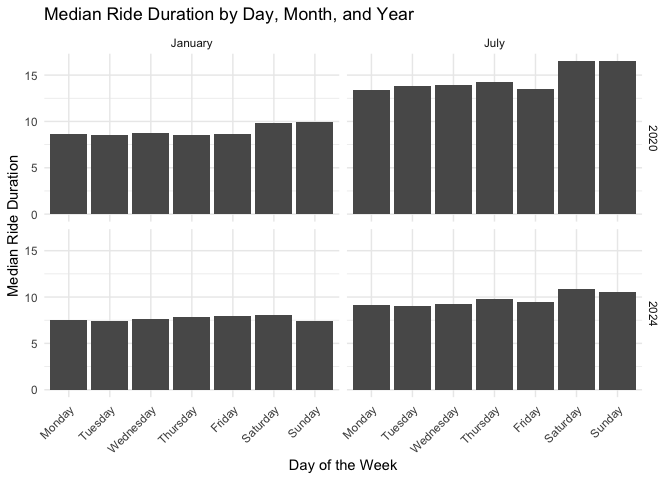
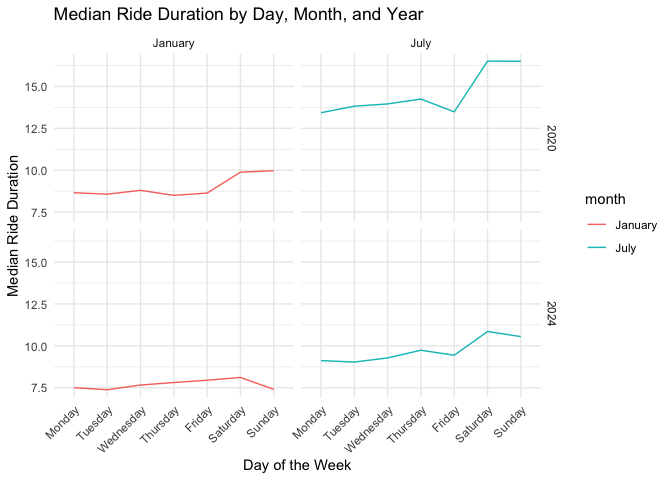
Create plot shows the impact of month, membership status, and bike type on the distribution of ride duration

diff --git a/p8105_hw3_ys3924.md b/p8105_hw3_ys3924.md
@@ -27,7 +27,7 @@ dataset has 2595176 observations. There exists missing values for
 temperature, precipitation, or snowfall, which can affect analysis if
 not handled properly.
 
-Count the snow fall
+### Count the snow fall
 
 ``` r
 snowfall_counts = ny_noaa |>
@@ -113,9 +113,11 @@ covar_data = read_csv("./data/nhanes_covar.csv", skip = 3) |>
                        labels = c("Less than high school",
                                   "High school equivalent",
                                   "More than high school")),
-    age = as.numeric(age)
+    age = as.numeric(age),
+    bmi = as.numeric(bmi)
   ) |>
   drop_na() |>
+  arrange(education) |>
   filter(age >= 21)
 full_data = left_join(covar_data, accel_data, by = "seqn")
 ```
@@ -205,10 +207,6 @@ full_data |>
   theme_minimal()
 ```
 
-    ## `summarise()` has grouped output by 'minute', 'sex'. You can override using the
-    ## `.groups` argument.
-    ## `geom_smooth()` using method = 'gam' and formula = 'y ~ s(x, bs = "cs")'
-
 ![](p8105_hw3_ys3924_files/figure-gfm/unnamed-chunk-9-1.png)<!-- -->
 
 By looking at above plot, activity peaks occur in the middle of the day
@@ -242,7 +240,11 @@ july_2024 = read_csv("./data/citibike/July 2024 Citi.csv", na = c("NA", ".", "")
   janitor::clean_names() |>
   mutate(year = 2024,
          month = "July")
-citi_data = bind_rows(jan_2020, jan_2024, july_2020, july_2024)
+citi_data = bind_rows(jan_2020, jan_2024, july_2020, july_2024) |>
+  mutate(weekdays = factor(weekdays, 
+                      levels =c("Monday", "Tuesday", "Wednesday", "Thursday", 
+                                "Friday", "Saturday", "Sunday"))) |>
+  arrange(weekdays)
 citi_rows = nrow(citi_data)
 citi_cols = ncol(citi_data)
 ```
@@ -263,9 +265,6 @@ citi_data |>
     values_from = "total_rides") |>
   knitr::kable()
 ```
-
-    ## `summarise()` has grouped output by 'year', 'month'. You can override using the
-    ## `.groups` argument.
 
 | year | month   | casual | member |
 |-----:|:--------|-------:|-------:|
@@ -306,13 +305,13 @@ Chambers St, and W 31 St & 7 Ave.
 
 ``` r
 citi_data |> 
-  mutate(weekdays = factor(weekdays, 
-                      levels =c("Monday", "Tuesday", "Wednesday", "Thursday", 
-                                "Friday", "Saturday", "Sunday"))) |>
   group_by(year, month, weekdays) |>
   summarise(median_duration = median(duration, na.rm = TRUE)) |>
-  ggplot(aes(x = weekdays, y = median_duration)) +
-  geom_col() +
+  ggplot(aes(x = weekdays,
+             y = median_duration,
+             group = interaction(year, month),
+             color = month)) +
+  geom_line() +
   facet_grid(year ~ month) +
   labs(x = "Day of the Week", y = "Median Ride Duration", 
        title = "Median Ride Duration by Day, Month, and Year") +
@@ -327,3 +326,25 @@ durations compared to January in both years. Saturday and Sunday have
 longer median durations compared to weekdays, particularly in July. The
 median ride duration in 2020 is generally longer than the median ride
 duration in 2024.
+
+### Create plot shows the impact of month, membership status, and bike type on the distribution of ride duration
+
+``` r
+citi_data |>
+  filter(year == 2024)|>
+  ggplot(aes(x = member_casual, y = duration, fill = rideable_type)) +
+  geom_boxplot() +
+  facet_wrap(~month) +
+  labs(title = "Impact of Ride Duration by Month, Membership Status and Bike Type",
+       x = "Membership Status", 
+       y = "Ride Duration") +
+  theme_minimal()
+```
+
+![](p8105_hw3_ys3924_files/figure-gfm/unnamed-chunk-14-1.png)<!-- -->
+
+In July, both casual and member riders tend to have longer ride
+durations compared to January. Electric bikes have slightly smaller
+median ride durations compared to classic bikes in most cases. Casual
+riders have longer ride durations compared to members regardless the
+bike type or the month.
